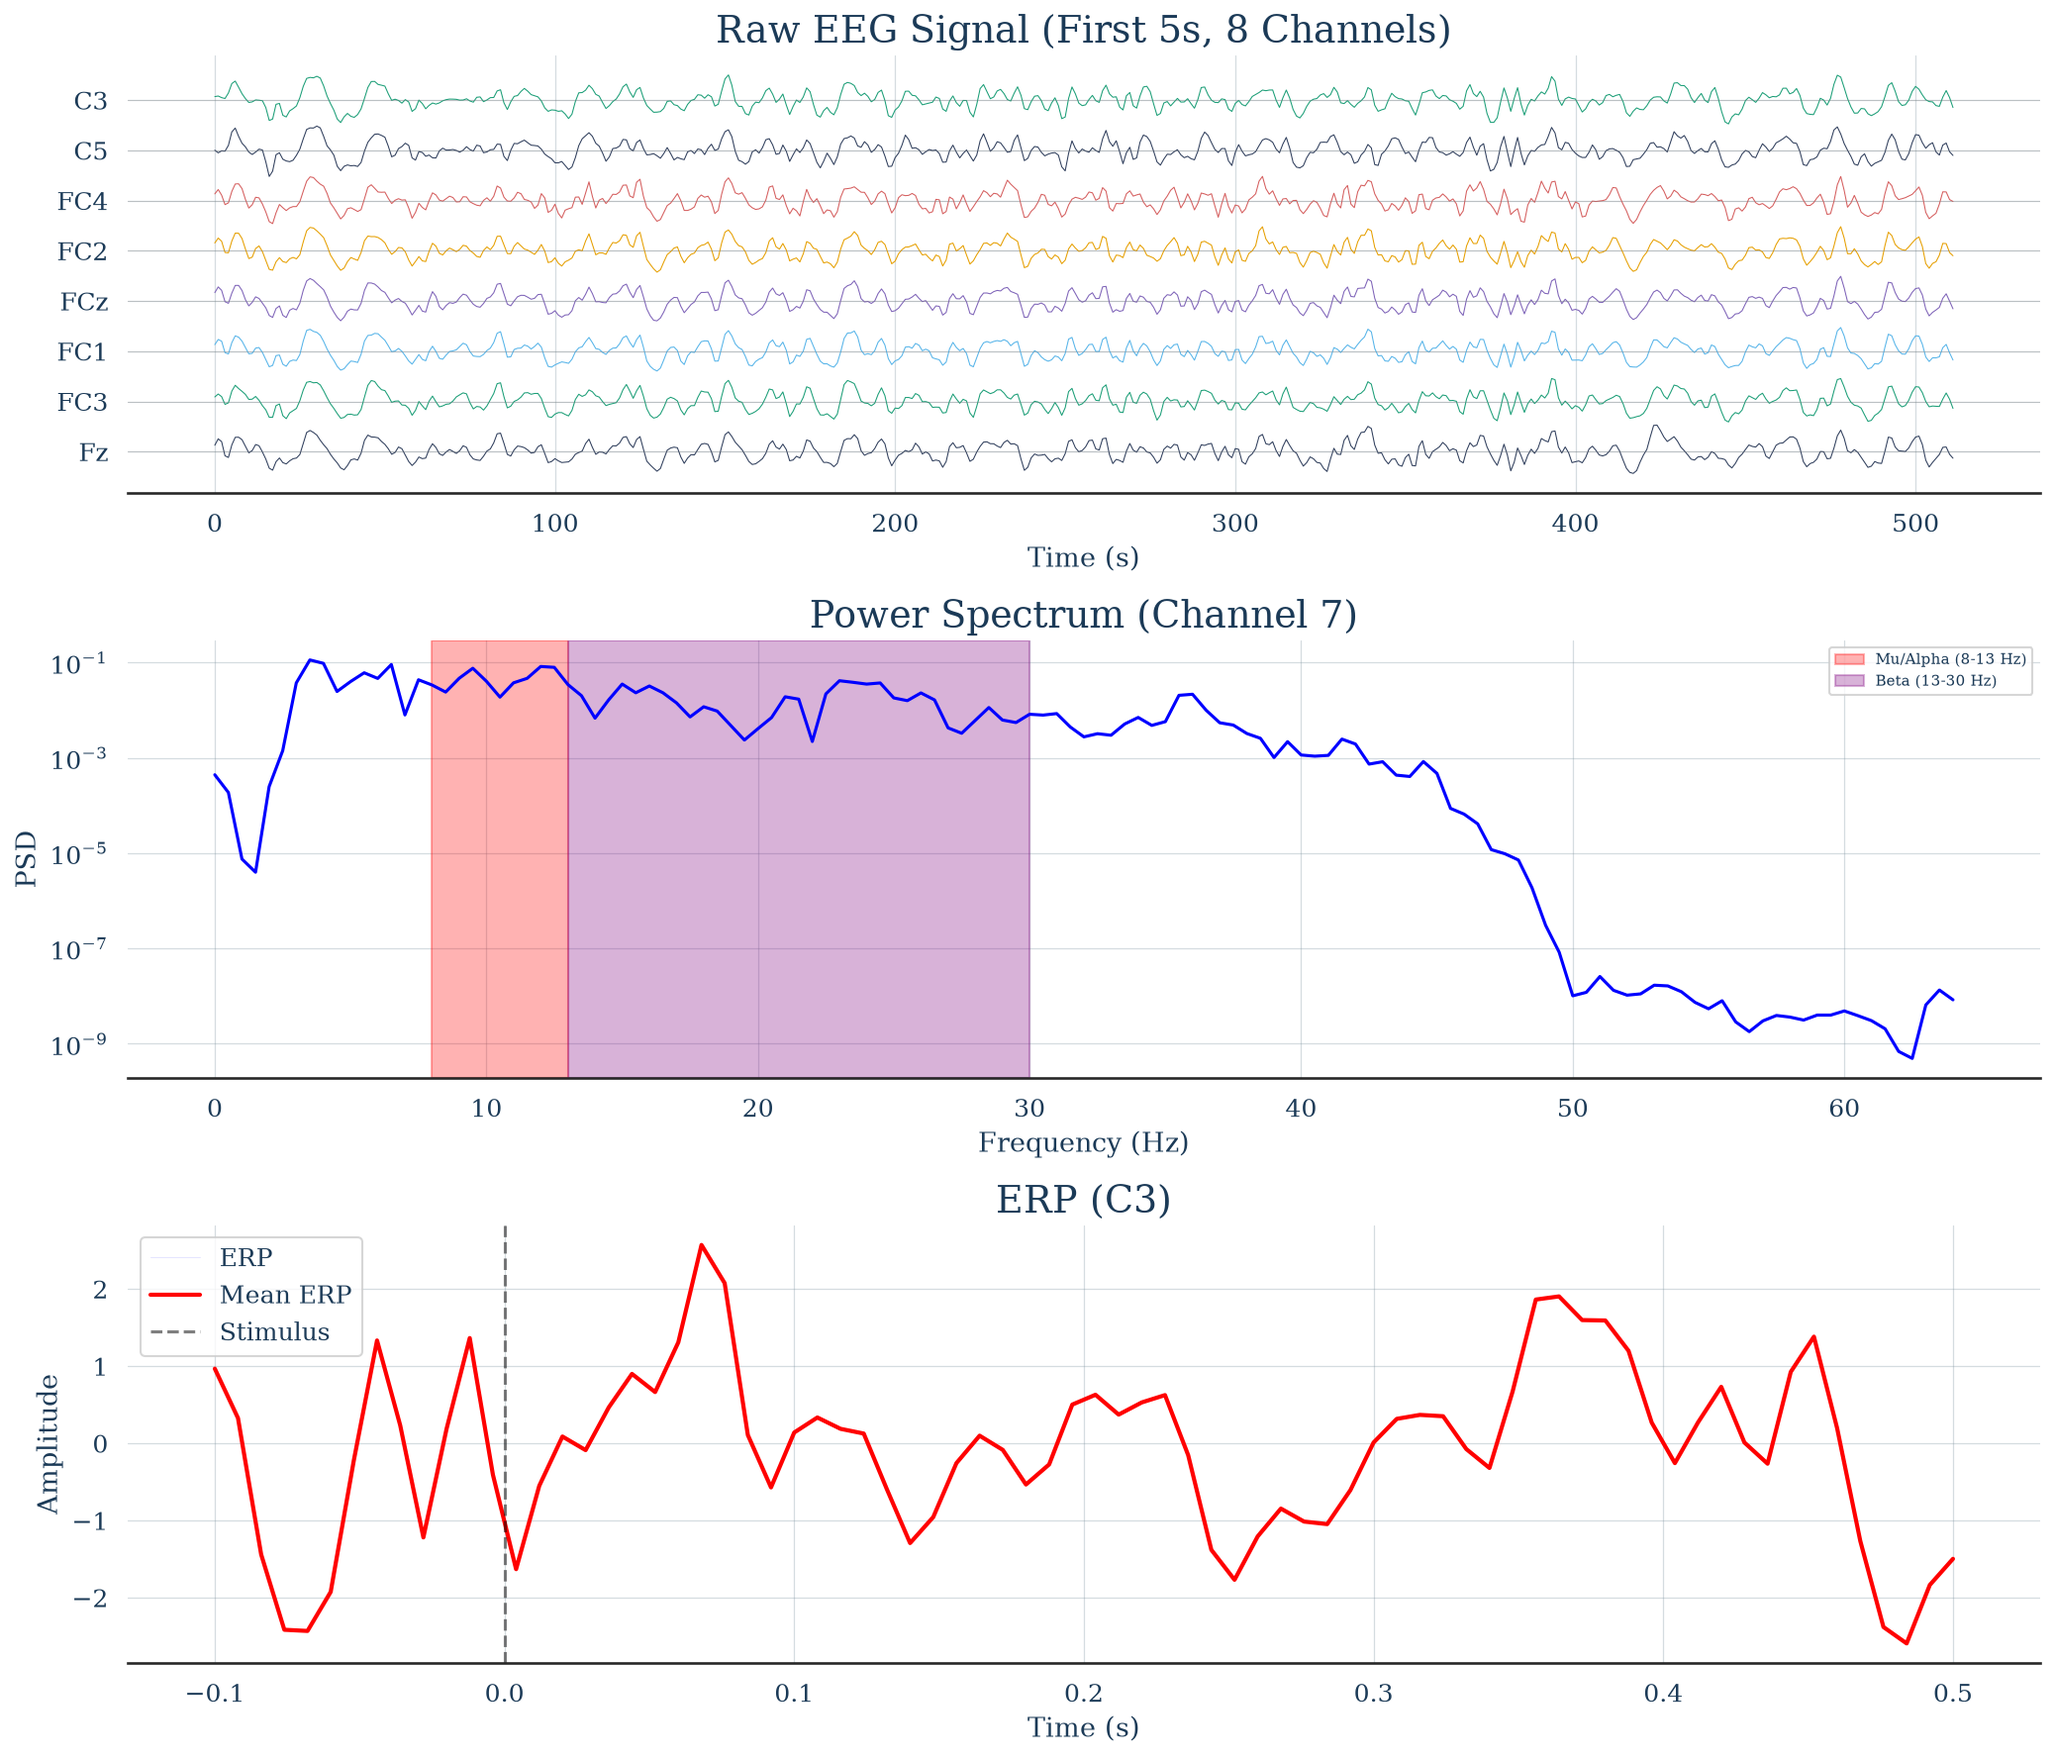
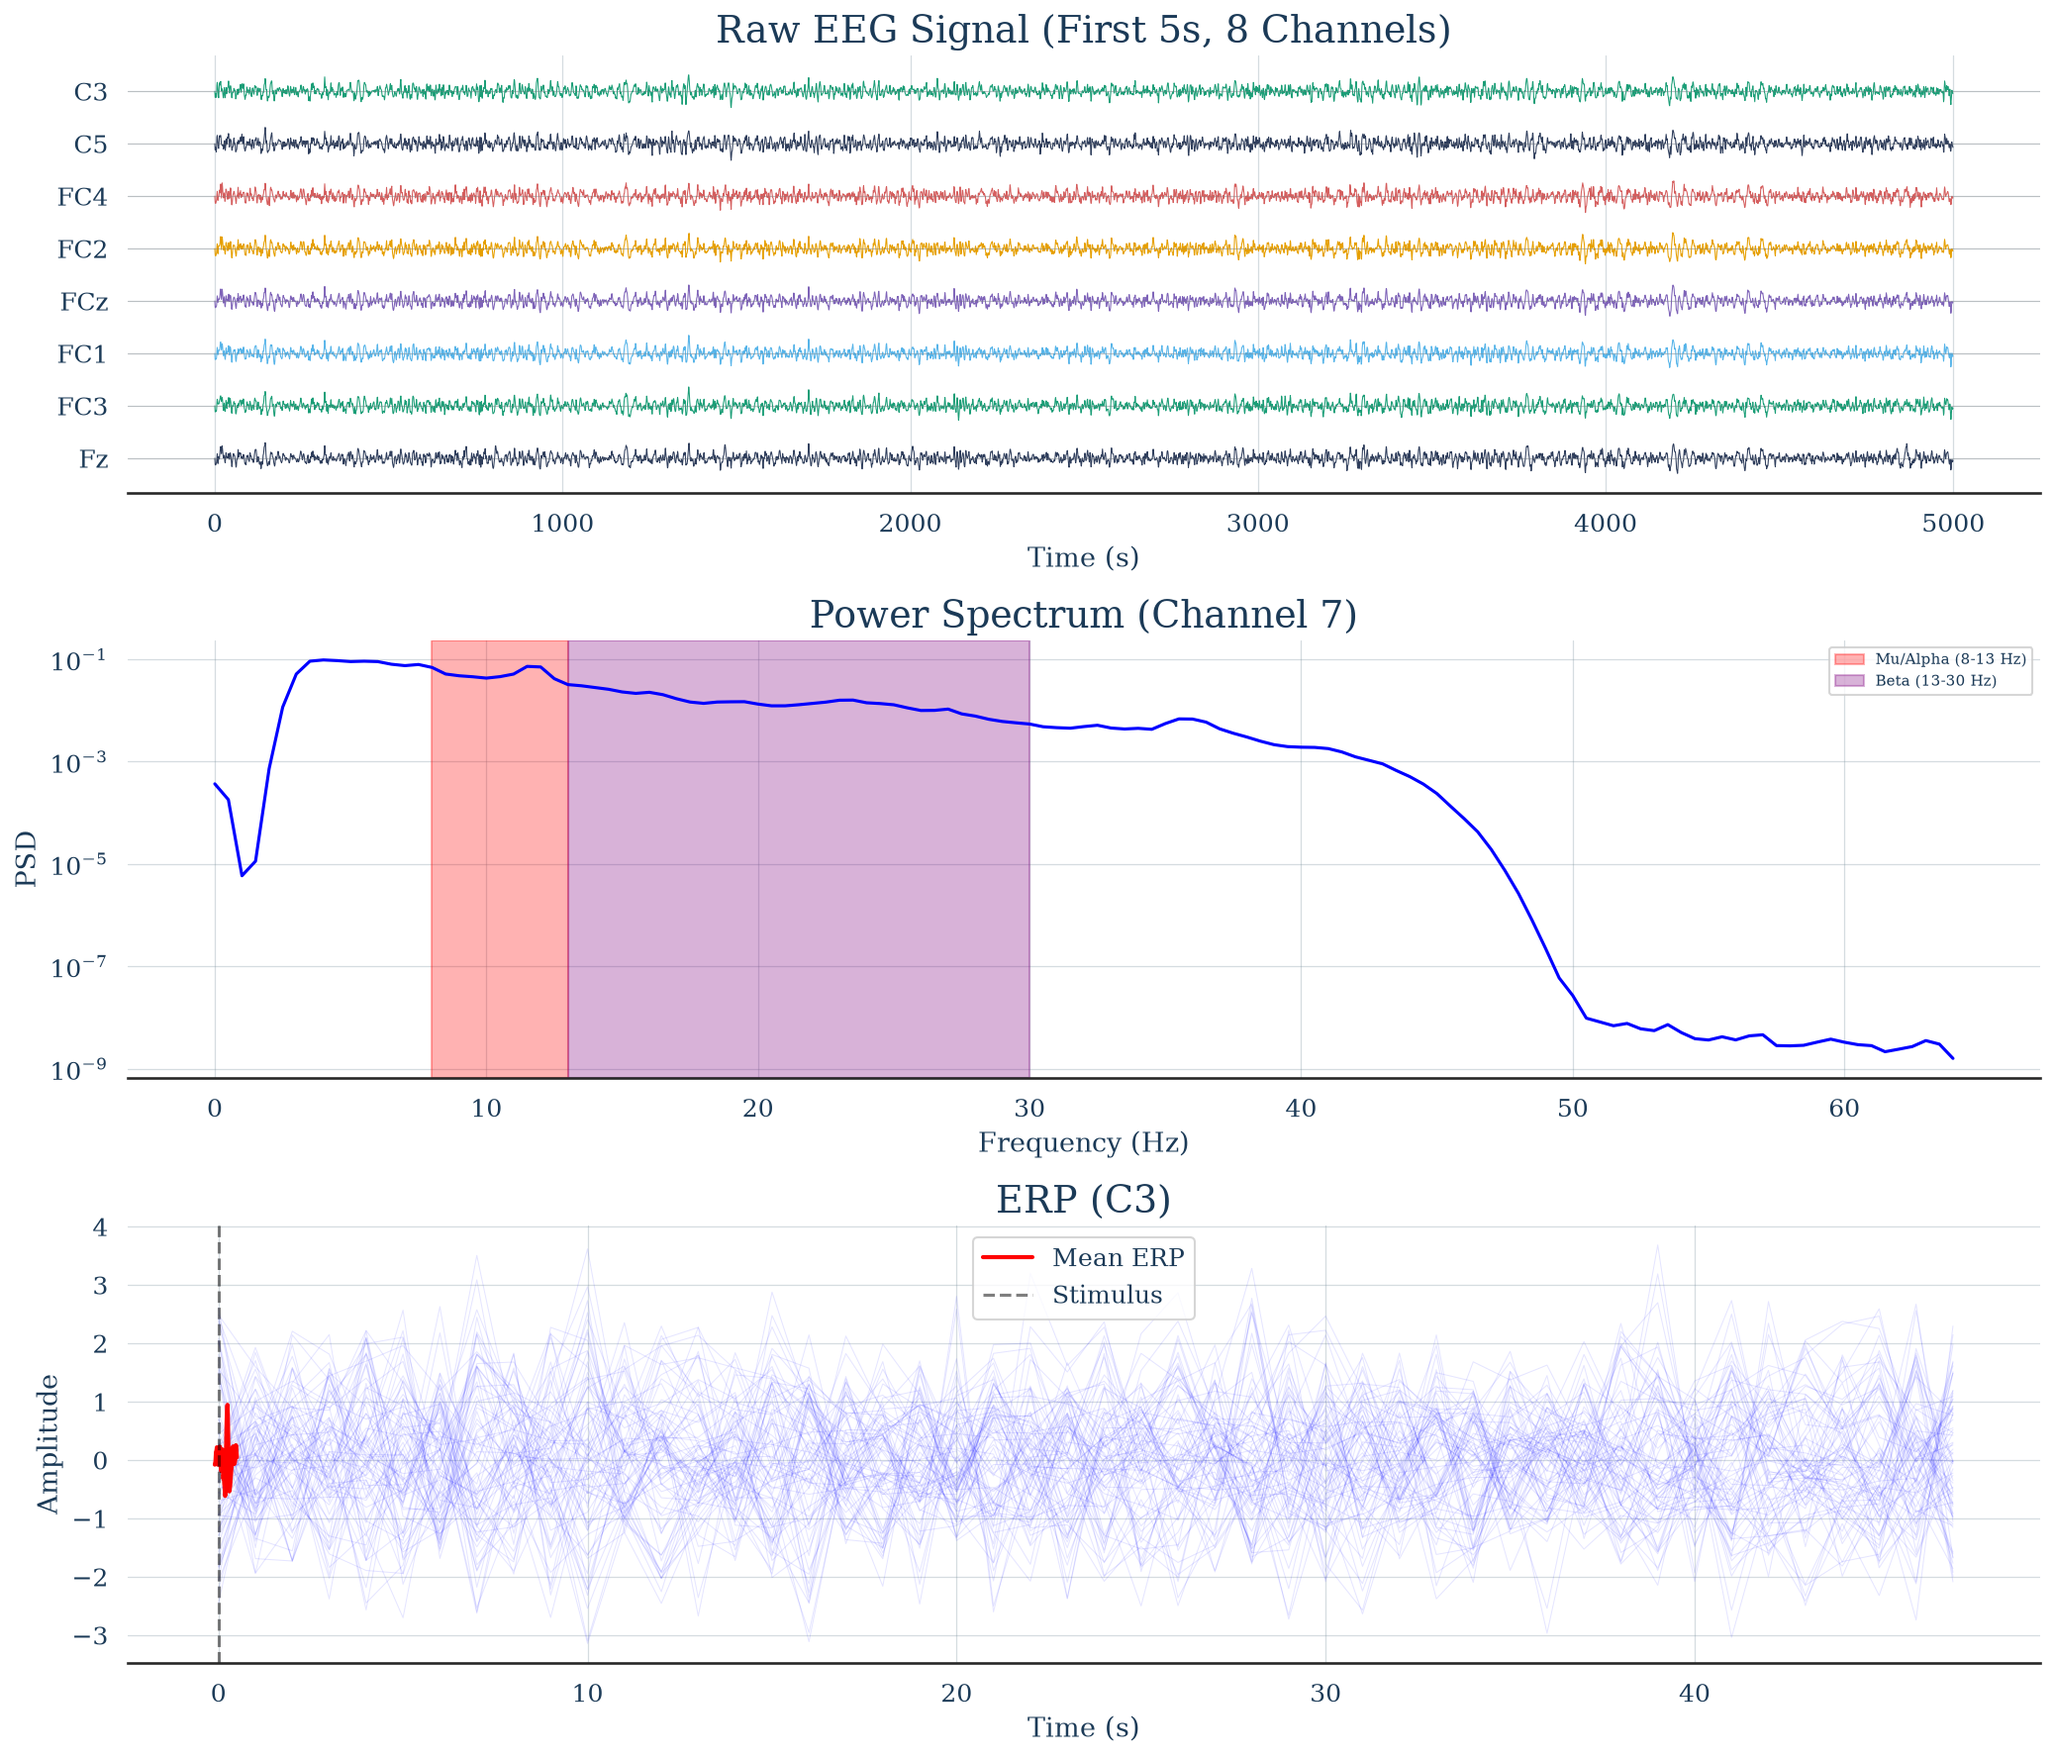
refactor(docs): 优化脑电可视化与数据集代码注释与打印逻辑
1. 新增axplot.py示例脚本，演示多折线绘制方法
2. 修正dataset.py中长度打印注释错误，调整统计代码位置
3. 更新05_visualization.py：修复原始数据读取逻辑，调整事件处理与绘图代码
4. 补充dataset_1.py的事件与标注示例输出注释

diff --git a/src/braindecode_learning/05_visualization.py b/src/braindecode_learning/05_visualization.py
@@ -399,22 +399,17 @@ def tutorial_eeg_signal_plot():
         preload=True,
     )
 
-    # EEGWindowsDataset 存储的是 raw 对象，通过 .raw 访问
-    raw = train_windows.datasets[0].raw # run0的raw
+    # 以下研究对象：第0个run
+    train_dataset_run0 = train_dataset.datasets[0]
+    raw = train_dataset_run0.raw # run0的raw
+    data = raw.get_data() # run0的data(22, 49528)
     info = raw.info
     ch_names = raw.info["ch_names"]
     sfreq = raw.info["sfreq"]
-
-    # data: numpy array(22, 512)
-    # y: numpy array(1,)
-    data, y , _ = train_windows[0]
-    print(f"  data range (µV): [{data.min():.6f}, {data.max():.6f}]")
     n_channels = data.shape[0] # 22
-    n_times = data.shape[1] # 512
-
-    n_show = 8
-    # 用微伏数据计算通道间距
-    step = abs(data).max() * 1.5
+    n_times = data.shape[1] # 49528
+    step = abs(data).max() * 1.5 # 振幅范围
+    print(f"  data range (µV): [{data.min():.6f}, {data.max():.6f}]")
     print(f"  step: {step:.6f}")
 
     # 当前代码中只有一个 figure（通过 plt.subplots 创建）
@@ -422,14 +417,17 @@ def tutorial_eeg_signal_plot():
 
     # 1. 原始 EEG
     ax = axes[0]
-    for i in range(n_show):
-        ax.plot(np.arange(0, n_times), data[i] + i * step, linewidth=0.5)
+    # 绘制前8个通道,前5000个样本的原始信号信号
+    for i in range(8):
+        # data(22, 49528)
+        # np.arange(0, 5000) 是 (5000,) 1D
+        # data[i, :5000] 是 (5000,) 1D
+        ax.plot(np.arange(0, 5000), data[i, :5000] + i * step, linewidth=0.5)
         ax.axhline(y=i * step, color="gray", alpha=0.3, linewidth=0.5)
-    # ax.set_xlim(0, 5)
     ax.set_xlabel("Time (s)")
     ax.set_title("Raw EEG Signal (First 5s, 8 Channels)")
-    ax.set_yticks([i * step for i in range(n_show)])
-    ax.set_yticklabels(ch_names[:n_show])
+    ax.set_yticks([i * step for i in range(8)])
+    ax.set_yticklabels(ch_names[:8])
 
 
 
@@ -448,31 +446,35 @@ def tutorial_eeg_signal_plot():
 
     # 3. ERP Event-Related Potential
     ax = axes[2]
-    try:
-        # stim通道已经被去掉，所以不走find_events
-        events = mne.find_events(raw) # 这里的events的起点是stim时刻的采样点索引
-    except ValueError:
-        events, _ = mne.events_from_annotations(raw) # 这里的events的起点是stim时刻+2s
+
+    # (48, 3)
     # events 是 MNE 格式的事件数组，形状为 (n_events, 3) ，每行格式为 [样本位置, 持续时间, 事件ID]
+    events, _ = mne.events_from_annotations(raw) # 这里的events的起点是stim时刻+2s
+    # events = mne.find_events(raw) # 这里的events的起点是stim时刻的采样点索引
+    
 
-    print(f"  events shape: {events.shape}")
 
-
-    sfreq = raw.info["sfreq"]
-    n_pre = int(0.1 * sfreq) # 事件发生 前 100ms 的采样点数（用于基线校准）
-    n_post = int(0.5 * sfreq) # 事件发生 后 500ms 的采样点数（用于捕捉诱发响应）
-    n_samples = n_pre + n_post # 总窗口长度 = 前基线 + 后刺激时间段
+    n_pre = int(0.1 * sfreq) # 事件发生 前 100ms 的采样点数（用于基线校准）= 128 * 0.1 = 12
+    n_post = int(0.5 * sfreq) # 事件发生 后 500ms 的采样点数（用于捕捉诱发响应）= 128 * 0.5 = 64
+    n_samples = n_pre + n_post # 总窗口长度 = 前基线 + 后刺激时间段 = 12 + 64 = 76 samples
     erps = []
+    # (22,512)
+    print(f"  data shape: {data.shape}")
     for ev in events:
         s = ev[0] - n_pre # 前移 100ms
         if 0 <= s and s + n_samples <= data.shape[1]:
             erps.append(data[7, s:s + n_samples]) # 取出从基线段到刺激后 500ms 的连续片段
 
     if erps:
+        # erps(48, 76)
         erps = np.array(erps) 
+        print(f"  erps shape: {erps.shape}") # (48, 76)
         erp_t = np.linspace(-0.1, 0.5, n_samples) # (n_samples,)
-        # (n_events, n_samples) -> (n_samples, n_events)
-        ax.plot(erp_t, erps.T, alpha=0.1, color="blue", linewidth=0.5, label="ERP")
+        print(f"  erp_t shape: {erp_t.shape}") # (76,)
+        # 当使用 ax.plot(x, y_data) 时，matplotlib 会将 y_data 的每一列当作一条独立的线来绘制。
+        # 较新版本（≥3.6）：plot(x, y_2d) 要求 x.shape[0] == y.shape[0]，
+        # 即 x 的长度必须等于 y 的行数，然后按列画曲线。
+        ax.plot(erp_t, erps.T, alpha=0.1, color="blue", linewidth=0.5)
         ax.plot(erp_t, erps.mean(axis=0), "r-", linewidth=2, label="Mean ERP")
         ax.axvline(x=0, color="black", linestyle="--", alpha=0.5, label="Stimulus")
         ax.set_xlabel("Time (s)")

diff --git a/src/braindecode_learning/dataset.py b/src/braindecode_learning/dataset.py
@@ -101,7 +101,7 @@ train_windows_run0 = train_windows.datasets[0] # EEGWindowsDataset：第一个ru
 print(type(train_dataset_run0)) # RawDataset
 print(type(train_windows_run0)) # EEGWindowsDataset
 
-print(len(train_dataset_run0)) # 128,每个run有49528个时间点，按照128hz采样率计算，总时长为49528/128=386秒
+print(len(train_dataset_run0)) # 49528,每个run有49528个时间点，按照128hz采样率计算，总时长为49528/128=386秒
 print(len(train_windows_run0)) # 48,每个run划分出48个窗口，每个窗口有512个时间点
 
 train_dataset_run0_time0 = train_dataset_run0[0] # 第一个最小单位(时间点)
@@ -305,14 +305,18 @@ print(pd.DataFrame(events, columns=["sample_offset", "duration", "event_id"]))
 #            (事件触发点 = events.sample_offset)
 
 
-
+"""
+train_dataset:所有run的时间点总数=49528*54=2674512
+train_windows:所有run的窗口总数=48*512*54=2592
+"""
+print(len(train_dataset)) # 2674512=54*49528:所有run的时间点总数
+print(len(train_windows)) # 2592=54*48*512:所有run的窗口总数
 
 
 """
 train_dataset[i]:第 i 个 时间点 的 数据,tuple:(X, y)
 train_windows[i]:第 i 个 窗口 的 数据,tuple:(X, y, crop_inds)
 """
-
 print(type(train_dataset[0])) # tuple
 print(type(train_windows[0])) # tuple
 
@@ -320,11 +324,6 @@ print(len(train_dataset[0])) # 2,run0的第一个最小单位(时间点)的tuple
 print(len(train_windows[0])) # 3,run0的第一个最小单位(窗口)的tuple:(X, y, crop_inds)
 
 
-"""
-train_dataset:所有run的时间点总数=49528*54=2674512
-train_windows:所有run的窗口总数=48*512*54=2592
-"""
-print(len(train_dataset)) # 2674512=54*49528:所有run的时间点总数
-print(len(train_windows)) # 2592=54*48*512:所有run的窗口总数
+
 
 

diff --git a/src/braindecode_learning/dataset_1.py b/src/braindecode_learning/dataset_1.py
@@ -55,12 +55,36 @@ print(events.shape) # (48, 3)
 
 import pandas as pd
 print(pd.DataFrame(events, columns=["sample_offset", "duration", "event_id"]))
+# 采样率250hz
+#     sample_offset  duration  event_id
+# 0             250         0         4  -> 第1秒
+# 1            2253         0         3
+# 2            4171         0         2
+# 3            6123         0         1
+# 4            8131         0         1
+# 5           10242         0         2
+# 6           12159         0         3
+# 7           14209         0         4
+# 8           16140         0         2
+# 9           18138         0         3
 
 
 # 此时annotations的onset是原始数据的stim时刻+2s=3s
 annotations = train_dataset_run0_raw.annotations
 df = annotations.to_data_frame()
 print(df)
+
+#                      onset  duration description
+# 0  2008-01-01 00:00:03.000       4.0      tongue  -> 第3秒
+# 1  2008-01-01 00:00:11.012       4.0        feet
+# 2  2008-01-01 00:00:18.684       4.0  right_hand
+# 3  2008-01-01 00:00:26.492       4.0   left_hand
+# 4  2008-01-01 00:00:34.524       4.0   left_hand
+# 5  2008-01-01 00:00:42.968       4.0  right_hand
+# 6  2008-01-01 00:00:50.636       4.0        feet
+# 7  2008-01-01 00:00:58.836       4.0      tongue
+# 8  2008-01-01 00:01:06.560       4.0  right_hand
+# 9  2008-01-01 00:01:14.552       4.0        feet
 
 
 

diff --git a/src/braindecode_learning/axplot.py b/src/braindecode_learning/axplot.py
@@ -1,0 +1,45 @@
+import matplotlib.pyplot as plt
+import numpy as np
+
+# 准备数据
+x = np.linspace(0, 10, 50)
+
+# 方法1：直接传入多个y值序列
+# 每一行是一个数据序列
+y_data = np.array([
+    np.sin(x),           # 正弦波
+    np.cos(x),           # 余弦波
+    np.sin(x) + np.cos(x),  # 正弦+余弦
+    0.5 * np.sin(2*x),   # 倍频正弦
+    0.8 * np.cos(0.5*x)  # 半频余弦
+])
+
+
+
+# 创建图形
+fig, (ax1, ax2) = plt.subplots(1, 2, figsize=(12, 5))
+
+print(y_data.shape)
+
+# ========== 方法1：一步绘制多条线（自动样式） ==========
+ax1.plot(y_data.T)  # 注意转置！每列代表一条线
+ax1.set_title('Method 1: Draw multiple lines in one step\n(Automatic color cycle)')
+ax1.set_xlabel('x')
+ax1.set_ylabel('y')
+ax1.grid(True, alpha=0.3)
+ax1.legend(['sin(x)', 'cos(x)', 'sin+cos', '0.5sin(2x)', '0.8cos(0.5x)'])
+
+# ========== 方法2：一步绘制多条线（自定义样式） ==========
+# 使用关键字参数一次性设置所有线的样式
+lines = ax2.plot(x, y_data.T, linewidth=2)
+ax2.set_title('Method 2: Draw multiple lines in one step\nUniform style for all lines)')
+ax2.set_xlabel('x')
+ax2.set_ylabel('y')
+ax2.grid(True, alpha=0.3)
+
+# 设置图例
+ax2.legend(['sin(x)', 'cos(x)', 'sin+cos', '0.5sin(2x)', '0.8cos(0.5x)'])
+
+plt.tight_layout()
+plt.show()
+
